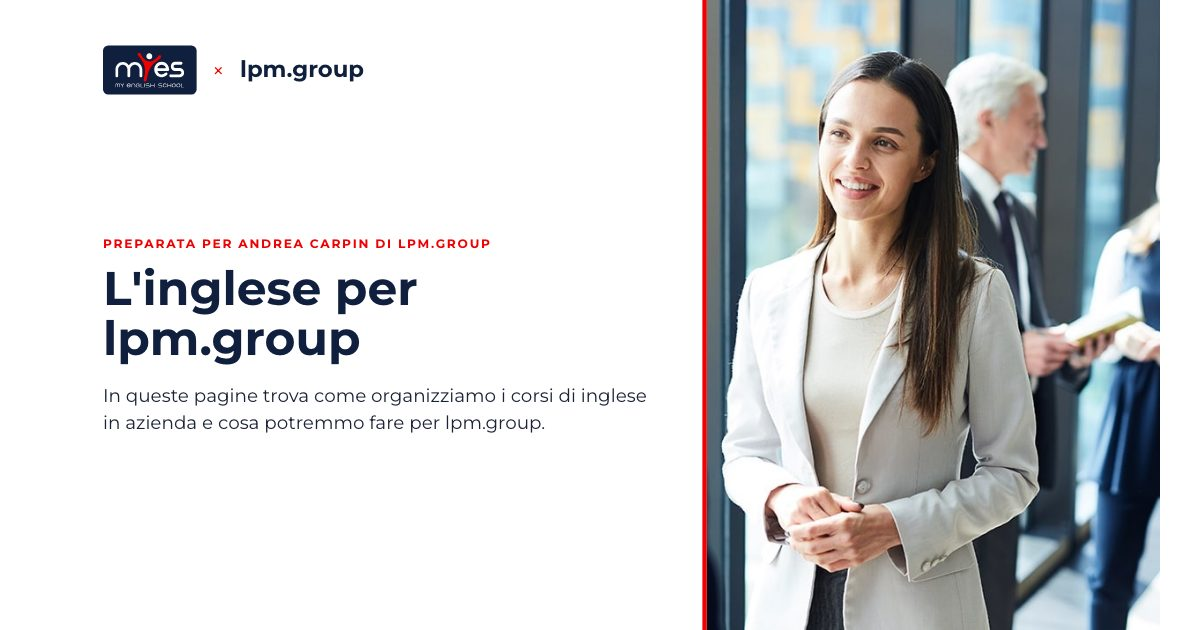
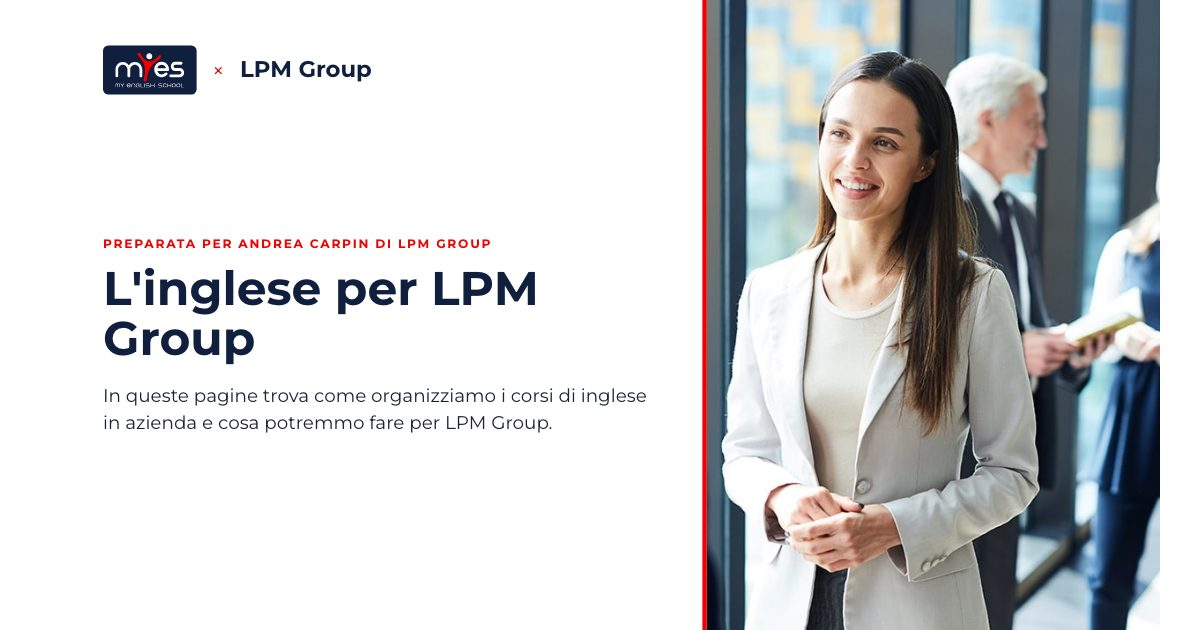
MyES: nome azienda allineato all'M1 (Giesse, LPM Group, Sisa)

diff --git a/myes/lpm-group-2/index.html b/myes/lpm-group-2/index.html
@@ -4,9 +4,9 @@
 <meta charset="utf-8">
 <meta name="viewport" content="width=device-width,initial-scale=1,viewport-fit=cover">
 <meta name="robots" content="noindex,nofollow">
-<title>lpm.group e My English School</title>
-<meta property="og:title" content="lpm.group e My English School">
-<meta property="og:description" content="Una pagina preparata per Andrea Carpin di lpm.group con come possiamo organizzare i corsi di inglese per la vostra azienda.">
+<title>LPM Group e My English School</title>
+<meta property="og:title" content="LPM Group e My English School">
+<meta property="og:description" content="Una pagina preparata per Andrea Carpin di LPM Group con come possiamo organizzare i corsi di inglese per la vostra azienda.">
 <meta property="og:type" content="website">
 <meta property="og:image" content="https://paginadedicata.com/myes/assets/og/lpm-group-2.jpg">
 <meta name="twitter:card" content="summary_large_image">
@@ -118,13 +118,13 @@ html.phone .cover .r{flex-basis:30%;background-image:url(../assets/myes-aziende-
 <body>
 <div class="stage"><div class="slides">
 
-<section data-i="1" aria-label="Preparata per lpm.group" class="on"><div class="s cover">
+<section data-i="1" aria-label="Preparata per LPM Group" class="on"><div class="s cover">
   <div class="l">
-    <div class="pair"><span class="chip"><img src="../assets/myes-logo.svg" alt="My English School"></span><span class="x">×</span><span class="nm">lpm.group</span></div>
+    <div class="pair"><span class="chip"><img src="../assets/myes-logo.svg" alt="My English School"></span><span class="x">×</span><span class="nm">LPM Group</span></div>
     <div class="m">
-      <div class="eyebrow">Preparata per Andrea Carpin di lpm.group</div>
-      <h1>L'inglese per lpm.group</h1>
-      <p class="sub">In queste pagine trova come organizziamo i corsi di inglese in azienda e cosa potremmo fare per lpm.group.</p>
+      <div class="eyebrow">Preparata per Andrea Carpin di LPM Group</div>
+      <h1>L'inglese per LPM Group</h1>
+      <p class="sub">In queste pagine trova come organizziamo i corsi di inglese in azienda e cosa potremmo fare per LPM Group.</p>
     </div>
   </div>
   <div class="r" role="img" aria-label="Persone al lavoro in azienda"></div>
@@ -132,7 +132,7 @@ html.phone .cover .r{flex-basis:30%;background-image:url(../assets/myes-aziende-
 
 <section data-i="2" aria-label="Cosa facciamo"><div class="s">
   <div class="eyebrow">Cosa facciamo</div>
-  <h2>I corsi di inglese per lpm.group</h2>
+  <h2>I corsi di inglese per LPM Group</h2>
   <div class="mk">
     <div><b>Su misura</b><span>Corsi di inglese aziendali costruiti sui vostri team e sui loro livelli.</span></div>
     <div><b>Modalità</b><span>In presenza e da remoto. La formazione si adatta all'organizzazione, ai tempi e alle sedi dell'azienda.</span></div>
@@ -170,7 +170,7 @@ html.phone .cover .r{flex-basis:30%;background-image:url(../assets/myes-aziende-
 <section data-i="5" aria-label="Prenoti una call"><div class="s talk">
   <div class="l">
     <div class="pi" role="img" aria-label="Paolo Ballini"></div>
-    <h2>Parliamo di lpm.group</h2>
+    <h2>Parliamo di LPM Group</h2>
     <div class="who"><b>Paolo Ballini</b><span>National Corporate Manager, My English School</span></div>
     <a class="btn" href="https://api.leadconnectorhq.com/widget/booking/FD6eolTgISDzy38c4hIN" target="_blank" rel="noopener">Prenoti una call</a>
     <p class="alt">Se le è più comodo, può rispondere al messaggio che ha ricevuto su LinkedIn.</p>

diff --git a/myes/lpm-group/index.html b/myes/lpm-group/index.html
@@ -4,9 +4,9 @@
 <meta charset="utf-8">
 <meta name="viewport" content="width=device-width,initial-scale=1,viewport-fit=cover">
 <meta name="robots" content="noindex,nofollow">
-<title>lpm.group e My English School</title>
-<meta property="og:title" content="lpm.group e My English School">
-<meta property="og:description" content="Una pagina preparata per Gian Agretti di lpm.group con come possiamo organizzare i corsi di inglese per la vostra azienda.">
+<title>LPM Group e My English School</title>
+<meta property="og:title" content="LPM Group e My English School">
+<meta property="og:description" content="Una pagina preparata per Gian Agretti di LPM Group con come possiamo organizzare i corsi di inglese per la vostra azienda.">
 <meta property="og:type" content="website">
 <meta property="og:image" content="https://paginadedicata.com/myes/assets/og/lpm-group.jpg">
 <meta name="twitter:card" content="summary_large_image">
@@ -118,13 +118,13 @@ html.phone .cover .r{flex-basis:30%;background-image:url(../assets/myes-aziende-
 <body>
 <div class="stage"><div class="slides">
 
-<section data-i="1" aria-label="Preparata per lpm.group" class="on"><div class="s cover">
+<section data-i="1" aria-label="Preparata per LPM Group" class="on"><div class="s cover">
   <div class="l">
-    <div class="pair"><span class="chip"><img src="../assets/myes-logo.svg" alt="My English School"></span><span class="x">×</span><span class="nm">lpm.group</span></div>
+    <div class="pair"><span class="chip"><img src="../assets/myes-logo.svg" alt="My English School"></span><span class="x">×</span><span class="nm">LPM Group</span></div>
     <div class="m">
-      <div class="eyebrow">Preparata per Gian Agretti di lpm.group</div>
-      <h1>L'inglese per lpm.group</h1>
-      <p class="sub">In queste pagine trova come organizziamo i corsi di inglese in azienda e cosa potremmo fare per lpm.group.</p>
+      <div class="eyebrow">Preparata per Gian Agretti di LPM Group</div>
+      <h1>L'inglese per LPM Group</h1>
+      <p class="sub">In queste pagine trova come organizziamo i corsi di inglese in azienda e cosa potremmo fare per LPM Group.</p>
     </div>
   </div>
   <div class="r" role="img" aria-label="Persone al lavoro in azienda"></div>
@@ -132,7 +132,7 @@ html.phone .cover .r{flex-basis:30%;background-image:url(../assets/myes-aziende-
 
 <section data-i="2" aria-label="Cosa facciamo"><div class="s">
   <div class="eyebrow">Cosa facciamo</div>
-  <h2>I corsi di inglese per lpm.group</h2>
+  <h2>I corsi di inglese per LPM Group</h2>
   <div class="mk">
     <div><b>Su misura</b><span>Corsi di inglese aziendali costruiti sui vostri team e sui loro livelli.</span></div>
     <div><b>Modalità</b><span>In presenza e da remoto. La formazione si adatta all'organizzazione, ai tempi e alle sedi dell'azienda.</span></div>
@@ -170,7 +170,7 @@ html.phone .cover .r{flex-basis:30%;background-image:url(../assets/myes-aziende-
 <section data-i="5" aria-label="Prenoti una call"><div class="s talk">
   <div class="l">
     <div class="pi" role="img" aria-label="Paolo Ballini"></div>
-    <h2>Parliamo di lpm.group</h2>
+    <h2>Parliamo di LPM Group</h2>
     <div class="who"><b>Paolo Ballini</b><span>National Corporate Manager, My English School</span></div>
     <a class="btn" href="https://api.leadconnectorhq.com/widget/booking/FD6eolTgISDzy38c4hIN" target="_blank" rel="noopener">Prenoti una call</a>
     <p class="alt">Se le è più comodo, può rispondere al messaggio che ha ricevuto su LinkedIn.</p>

diff --git a/myes/giesse/index.html b/myes/giesse/index.html
@@ -4,9 +4,9 @@
 <meta charset="utf-8">
 <meta name="viewport" content="width=device-width,initial-scale=1,viewport-fit=cover">
 <meta name="robots" content="noindex,nofollow">
-<title>giesse e My English School</title>
-<meta property="og:title" content="giesse e My English School">
-<meta property="og:description" content="Una pagina preparata per Luca Giandomenico di giesse con come possiamo organizzare i corsi di inglese per la vostra azienda.">
+<title>Giesse e My English School</title>
+<meta property="og:title" content="Giesse e My English School">
+<meta property="og:description" content="Una pagina preparata per Luca Giandomenico di Giesse con come possiamo organizzare i corsi di inglese per la vostra azienda.">
 <meta property="og:type" content="website">
 <meta property="og:image" content="https://paginadedicata.com/myes/assets/og/giesse.jpg">
 <meta name="twitter:card" content="summary_large_image">
@@ -118,13 +118,13 @@ html.phone .cover .r{flex-basis:30%;background-image:url(../assets/myes-aziende-
 <body>
 <div class="stage"><div class="slides">
 
-<section data-i="1" aria-label="Preparata per giesse" class="on"><div class="s cover">
+<section data-i="1" aria-label="Preparata per Giesse" class="on"><div class="s cover">
   <div class="l">
-    <div class="pair"><span class="chip"><img src="../assets/myes-logo.svg" alt="My English School"></span><span class="x">×</span><span class="nm">giesse</span></div>
+    <div class="pair"><span class="chip"><img src="../assets/myes-logo.svg" alt="My English School"></span><span class="x">×</span><span class="nm">Giesse</span></div>
     <div class="m">
-      <div class="eyebrow">Preparata per Luca Giandomenico di giesse</div>
-      <h1>L'inglese per giesse</h1>
-      <p class="sub">In queste pagine trova come organizziamo i corsi di inglese in azienda e cosa potremmo fare per giesse.</p>
+      <div class="eyebrow">Preparata per Luca Giandomenico di Giesse</div>
+      <h1>L'inglese per Giesse</h1>
+      <p class="sub">In queste pagine trova come organizziamo i corsi di inglese in azienda e cosa potremmo fare per Giesse.</p>
     </div>
   </div>
   <div class="r" role="img" aria-label="Persone al lavoro in azienda"></div>
@@ -132,7 +132,7 @@ html.phone .cover .r{flex-basis:30%;background-image:url(../assets/myes-aziende-
 
 <section data-i="2" aria-label="Cosa facciamo"><div class="s">
   <div class="eyebrow">Cosa facciamo</div>
-  <h2>I corsi di inglese per giesse</h2>
+  <h2>I corsi di inglese per Giesse</h2>
   <div class="mk">
     <div><b>Su misura</b><span>Corsi di inglese aziendali costruiti sui vostri team e sui loro livelli.</span></div>
     <div><b>Modalità</b><span>In presenza e da remoto. La formazione si adatta all'organizzazione, ai tempi e alle sedi dell'azienda.</span></div>
@@ -170,7 +170,7 @@ html.phone .cover .r{flex-basis:30%;background-image:url(../assets/myes-aziende-
 <section data-i="5" aria-label="Prenoti una call"><div class="s talk">
   <div class="l">
     <div class="pi" role="img" aria-label="Paolo Ballini"></div>
-    <h2>Parliamo di giesse</h2>
+    <h2>Parliamo di Giesse</h2>
     <div class="who"><b>Paolo Ballini</b><span>National Corporate Manager, My English School</span></div>
     <a class="btn" href="https://api.leadconnectorhq.com/widget/booking/FD6eolTgISDzy38c4hIN" target="_blank" rel="noopener">Prenoti una call</a>
     <p class="alt">Se le è più comodo, può rispondere al messaggio che ha ricevuto su LinkedIn.</p>

diff --git a/myes/sisa/index.html b/myes/sisa/index.html
@@ -4,9 +4,9 @@
 <meta charset="utf-8">
 <meta name="viewport" content="width=device-width,initial-scale=1,viewport-fit=cover">
 <meta name="robots" content="noindex,nofollow">
-<title>sisa e My English School</title>
-<meta property="og:title" content="sisa e My English School">
-<meta property="og:description" content="Una pagina preparata per Giovanni Mortillaro di sisa con come possiamo organizzare i corsi di inglese per la vostra azienda.">
+<title>Sisa e My English School</title>
+<meta property="og:title" content="Sisa e My English School">
+<meta property="og:description" content="Una pagina preparata per Giovanni Mortillaro di Sisa con come possiamo organizzare i corsi di inglese per la vostra azienda.">
 <meta property="og:type" content="website">
 <meta property="og:image" content="https://paginadedicata.com/myes/assets/og/sisa.jpg">
 <meta name="twitter:card" content="summary_large_image">
@@ -118,13 +118,13 @@ html.phone .cover .r{flex-basis:30%;background-image:url(../assets/myes-aziende-
 <body>
 <div class="stage"><div class="slides">
 
-<section data-i="1" aria-label="Preparata per sisa" class="on"><div class="s cover">
+<section data-i="1" aria-label="Preparata per Sisa" class="on"><div class="s cover">
   <div class="l">
-    <div class="pair"><span class="chip"><img src="../assets/myes-logo.svg" alt="My English School"></span><span class="x">×</span><span class="nm">sisa</span></div>
+    <div class="pair"><span class="chip"><img src="../assets/myes-logo.svg" alt="My English School"></span><span class="x">×</span><span class="nm">Sisa</span></div>
     <div class="m">
-      <div class="eyebrow">Preparata per Giovanni Mortillaro di sisa</div>
-      <h1>L'inglese per sisa</h1>
-      <p class="sub">In queste pagine trova come organizziamo i corsi di inglese in azienda e cosa potremmo fare per sisa.</p>
+      <div class="eyebrow">Preparata per Giovanni Mortillaro di Sisa</div>
+      <h1>L'inglese per Sisa</h1>
+      <p class="sub">In queste pagine trova come organizziamo i corsi di inglese in azienda e cosa potremmo fare per Sisa.</p>
     </div>
   </div>
   <div class="r" role="img" aria-label="Persone al lavoro in azienda"></div>
@@ -132,7 +132,7 @@ html.phone .cover .r{flex-basis:30%;background-image:url(../assets/myes-aziende-
 
 <section data-i="2" aria-label="Cosa facciamo"><div class="s">
   <div class="eyebrow">Cosa facciamo</div>
-  <h2>I corsi di inglese per sisa</h2>
+  <h2>I corsi di inglese per Sisa</h2>
   <div class="mk">
     <div><b>Su misura</b><span>Corsi di inglese aziendali costruiti sui vostri team e sui loro livelli.</span></div>
     <div><b>Modalità</b><span>In presenza e da remoto. La formazione si adatta all'organizzazione, ai tempi e alle sedi dell'azienda.</span></div>
@@ -170,7 +170,7 @@ html.phone .cover .r{flex-basis:30%;background-image:url(../assets/myes-aziende-
 <section data-i="5" aria-label="Prenoti una call"><div class="s talk">
   <div class="l">
     <div class="pi" role="img" aria-label="Paolo Ballini"></div>
-    <h2>Parliamo di sisa</h2>
+    <h2>Parliamo di Sisa</h2>
     <div class="who"><b>Paolo Ballini</b><span>National Corporate Manager, My English School</span></div>
     <a class="btn" href="https://api.leadconnectorhq.com/widget/booking/FD6eolTgISDzy38c4hIN" target="_blank" rel="noopener">Prenoti una call</a>
     <p class="alt">Se le è più comodo, può rispondere al messaggio che ha ricevuto su LinkedIn.</p>
